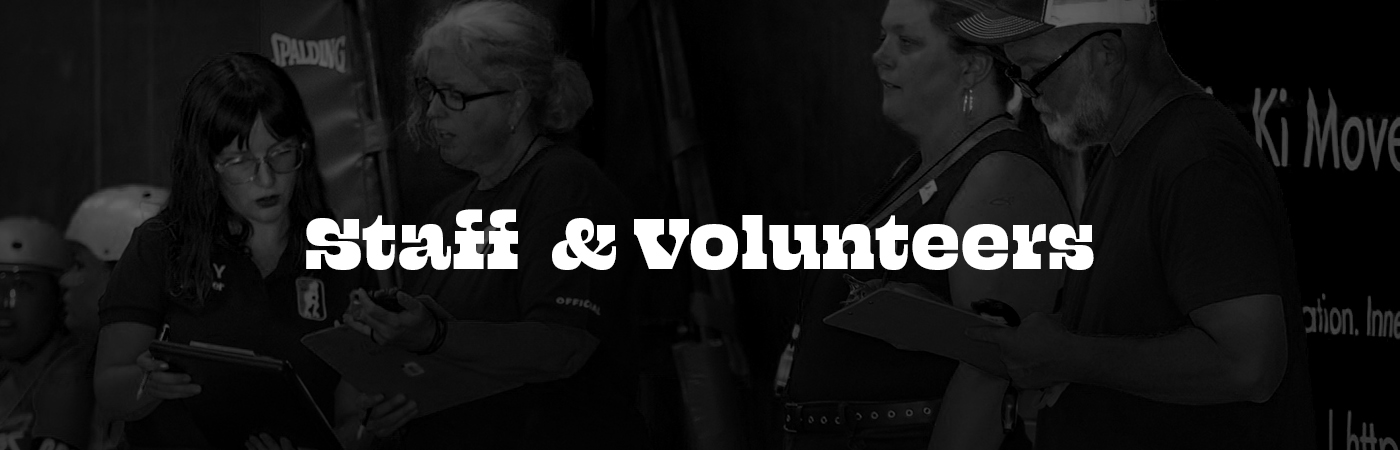
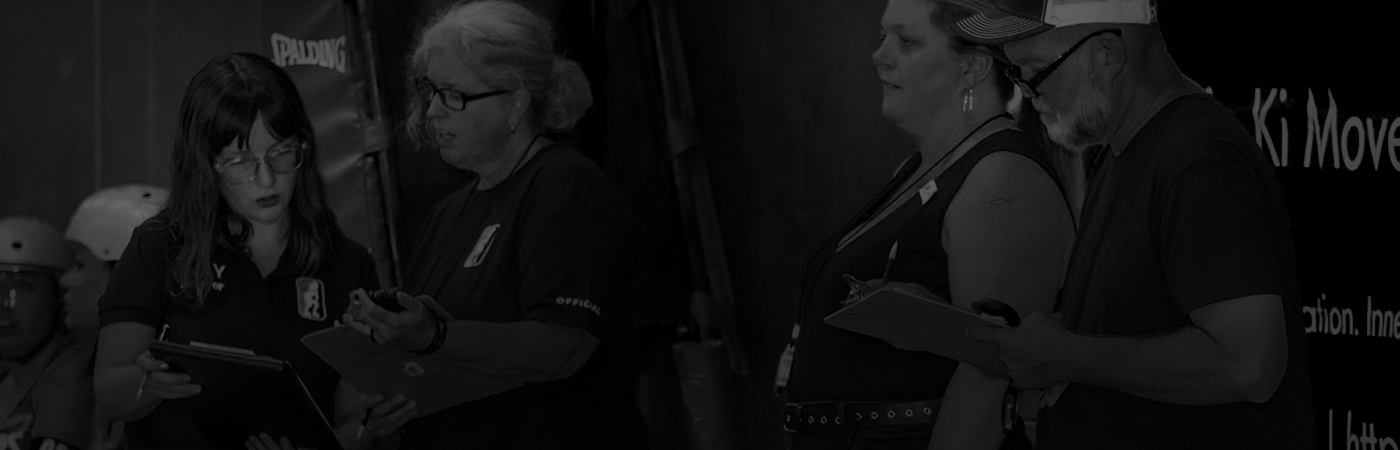
Update regional header images

Changed region(s): [[0.215, 0.4667, 0.7986, 0.6222]]

diff --git a/src/pages/regionals-nasouth-2024/staff.js b/src/pages/regionals-nasouth-2024/staff.js
@@ -18,6 +18,7 @@ const StaffAndVolunteersPage = () => {
             <main className="regionals regionals-staff">
                 <section className='regionals-staff-header'>
                     <div className="regionals-staff-header-image"></div>
+                    <div className="regionals-staff-header-title">Staff & Volunteers</div>
                 </section>
                 <Navigation />
                 <section className='regionals-staff-signups'>
@@ -47,7 +48,7 @@ const StaffAndVolunteersPage = () => {
                         </div>
                         <div className="regionals-staff-signups-option theme-3">
                             <div className="regionals-staff-signup-title">MEDICS</div>
-                            <div className="regionals-staff-signup-subtitle">Willing and qualified to help kepp our athletes safe as they play the game?</div>
+                            <div className="regionals-staff-signup-subtitle">Willing and qualified to help keep our athletes safe as they play the game?</div>
                             <a href="https://forms.gle/94GNsiJf5c27B9LS9" target="_blank" rel="noopener noreferrer">
                                 <button>Apply Here!</button>
                             </a>

diff --git a/src/pages/regionals-nasouth-2024/index.scss b/src/pages/regionals-nasouth-2024/index.scss
@@ -104,7 +104,7 @@
 }
 
 //---------------------------------------
-// Header Image
+// Page Headers
 //---------------------------------------
 [class^="regionals-"][class$="-header"]:not(.regionals-home-header) {
     height: 412px;
@@ -122,6 +122,18 @@
 [class^="regionals-"][class$="-header-image"]:not(.regionals-home-header-image) {
     height: 340px;
 }
+[class^="regionals-"][class$="-header-title"]:not(.regionals-home-header-title) {
+    z-index: 1;
+    font-size: 5rem !important;
+    font-weight: bolder;
+    color: white;
+    margin-left: 2rem;
+    margin-right: 2rem;
+}
+
+//---------------------------------------
+// Responsive
+//---------------------------------------
 @media only screen and (min-width: 768px) {
     .regionals [class*="theme-"] {
         padding: 5rem;

diff --git a/src/pages/regionals-nasouth-2024/hospitality.js b/src/pages/regionals-nasouth-2024/hospitality.js
@@ -16,6 +16,7 @@ const HospitalityPage = () => {
             <main className="regionals regionals-hospitality">
                 <section className='regionals-hospitality-header'>
                     <div className="regionals-hospitality-header-image"></div>
+                    <div className="regionals-hospitality-header-title">Hospitality</div>
                 </section>
                 <Navigation />
                 <section className="regionals-hospitality-about theme-1">

diff --git a/src/pages/regionals-nasouth-2024/sponsors.js b/src/pages/regionals-nasouth-2024/sponsors.js
@@ -13,6 +13,7 @@ const SponsorsAndVendorsPage = () => {
             <main className="regionals regionals-sponsors">
                 <section className='regionals-sponsors-header'>
                     <div className="regionals-sponsors-header-image"></div>
+                    <div className="regionals-sponsors-header-title">Sponsors & Vendors</div>
                 </section>
                 <Navigation />
                 <section className='regionals-sponsors-join theme-1'>

diff --git a/src/pages/regionals-nasouth-2024/texas.js b/src/pages/regionals-nasouth-2024/texas.js
@@ -9,6 +9,7 @@ const RollerDerbyInAustinPage = () => {
             <main className="regionals regionals-texas">
                 <section className="regionals-texas-header">
                     <div className="regionals-texas-header-image"></div>
+                    <div className="regionals-texas-header-title">Roller Derby in Texas</div>
                 </section>
                 <Navigation />
                 <section className="regionals-texas-overview theme-1">

diff --git a/src/pages/regionals-nasouth-2024/tickets.js b/src/pages/regionals-nasouth-2024/tickets.js
@@ -13,6 +13,7 @@ const TicketsPage = () => {
             <main className="regionals regionals-tickets">
                 <section className="regionals-tickets-header">
                     <div className="regionals-tickets-header-image"></div>
+                    <div className="regionals-tickets-header-title">Tickets</div>
                 </section>
                 <Navigation />
                 <section className="regionals-tickets-overview theme-1">

diff --git a/src/pages/regionals-nasouth-2024/info.scss b/src/pages/regionals-nasouth-2024/info.scss
@@ -1,14 +1,6 @@
 .regionals-info-header-image {
     background-image: url('../images/regionals-nasouth-2024/info-header.png');
 }
-.regionals-info-header-title {
-    z-index: 1;
-    font-size: 5rem !important;
-    font-weight: bolder;
-    color: white;
-    margin-left: 2rem;
-    margin-right: 2rem;
-}
 .regionals-info-about img {
     width: 100%;
 }

diff --git a/src/pages/regionals-nasouth-2024/hospitality.scss b/src/pages/regionals-nasouth-2024/hospitality.scss
@@ -1,5 +1,6 @@
 .regionals-hospitality-header-image {
     background-image: url('../images/regionals-nasouth-2024/hospitality-header.jpeg');
+    background-position: right center !important;
 }
 .regionals-hospitality img {
     margin: 2rem 0;

diff --git a/src/pages/regionals-nasouth-2024/staff.scss b/src/pages/regionals-nasouth-2024/staff.scss
@@ -1,5 +1,6 @@
 .regionals-staff-header-image {
     background-image: url('../images/regionals-nasouth-2024/staff-header.jpeg');
+    background-position: left center !important;
 }
 .regionals-staff img {
     width: 100%;
